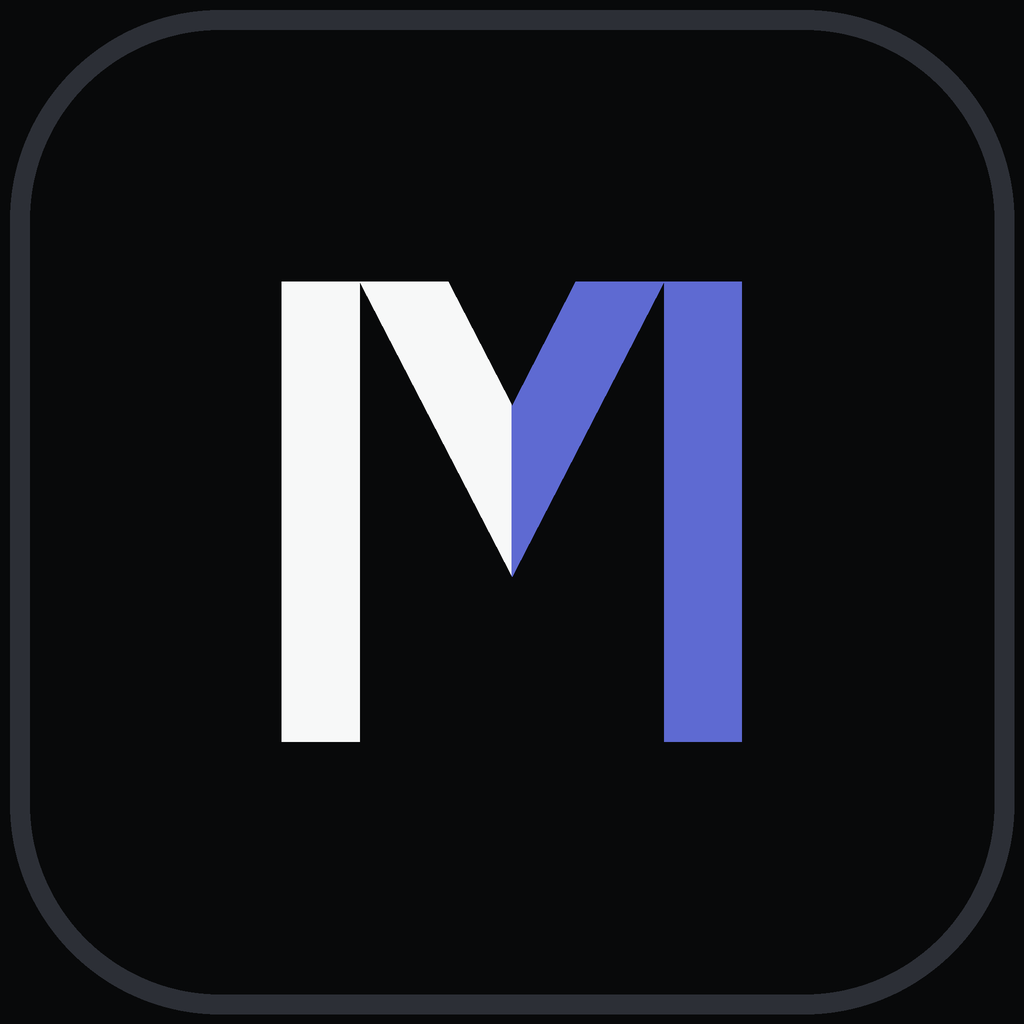
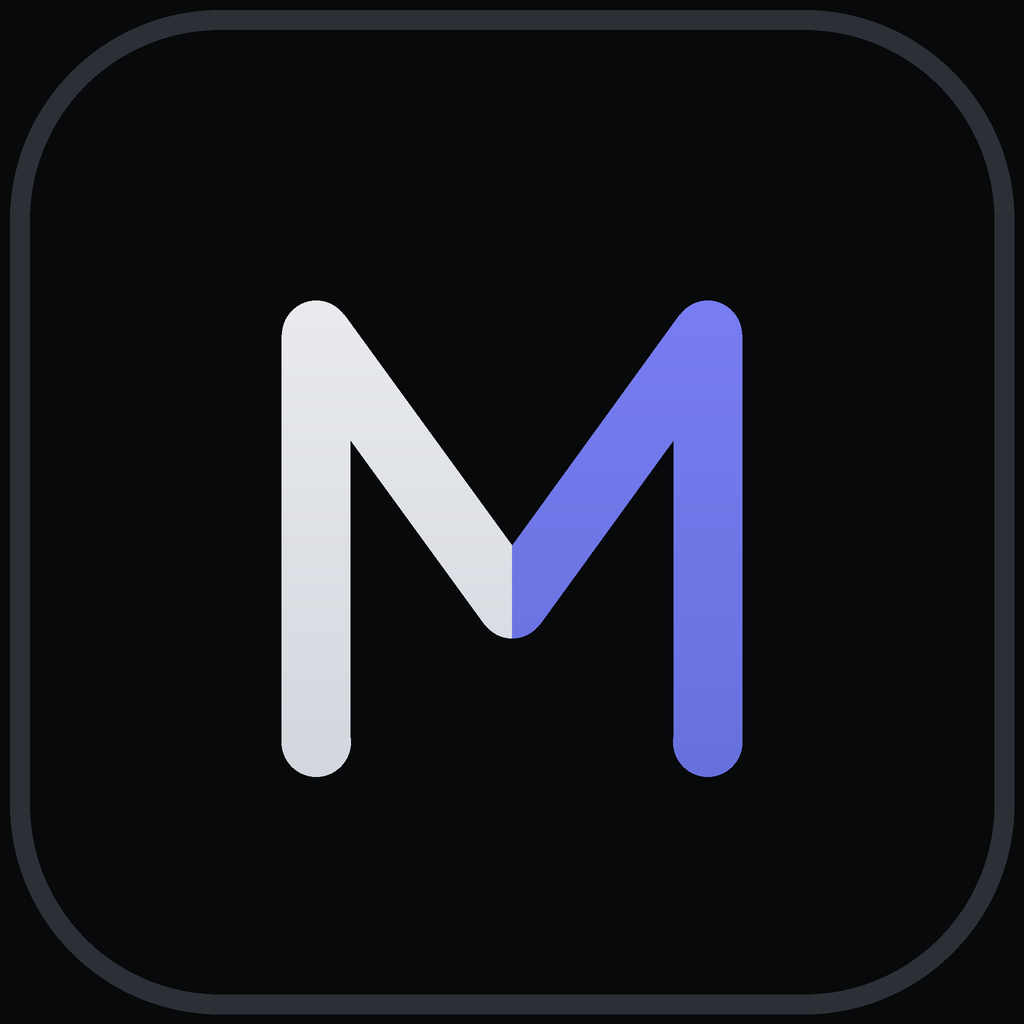
Soften the mark: stroked path with round joins and round caps
v3 was geometrically correct but every corner was a hard vertex - a needle
point at the centre of the M and sharp cuts where the diagonals met the cap.

v4 draws the letterform as one stroked polyline with a single width, round
joins at every corner and round caps at both ends. The centre vertex is now
an arc, the shoulders are soft turns, and the stem ends are rounded. Weight
stays uniform by construction, so the v2/v3 problem of diagonals reading
thinner than stems cannot recur.

The site's nav mark is regenerated from the same geometry.

Changed region(s): [[0.25, 0.25, 0.75, 0.7812], [0.6562, 0.7188, 0.75, 0.7812]]

diff --git a/site/index.html b/site/index.html
@@ -157,7 +157,7 @@
 <header>
   <div class="wrap nav">
     <a class="brand" href="#top" aria-label="Mandate">
-      <svg width="26" height="26" viewBox="0 0 512 512" fill="none" aria-hidden="true"><rect width="512" height="512" rx="110" fill="#08090a"/><rect x="5" y="5" width="502" height="502" rx="105" stroke="#2c2f36" stroke-width="10"/><polygon points="140.8,140.8 180.0,140.8 180.0,371.2 140.8,371.2" fill="#f7f8f8"/><polygon points="180.0,140.8 256.0,288.3 256.0,202.8 224.0,140.8" fill="#f7f8f8"/><polygon points="332.0,140.8 371.2,140.8 371.2,371.2 332.0,371.2" fill="#5e6ad2"/><polygon points="332.0,140.8 256.0,288.3 256.0,202.8 288.0,140.8" fill="#5e6ad2"/></svg>
+      <svg width="26" height="26" viewBox="0 0 512 512" fill="none" aria-hidden="true"><rect width="512" height="512" rx="110" fill="#08090a"/><rect x="5" y="5" width="502" height="502" rx="105" stroke="#2c2f36" stroke-width="10"/><defs><clipPath id="nl"><rect x="0" y="0" width="256" height="512"/></clipPath><clipPath id="nr"><rect x="256" y="0" width="256" height="512"/></clipPath></defs><g clip-path="url(#nl)"><path d="M 158.1 371.2 L 158.1 167.3 L 256.0 302.1 L 353.9 167.3 L 353.9 371.2" stroke="#f7f8f8" stroke-width="34.6" stroke-linecap="round" stroke-linejoin="round"/></g><g clip-path="url(#nr)"><path d="M 158.1 371.2 L 158.1 167.3 L 256.0 302.1 L 353.9 167.3 L 353.9 371.2" stroke="#5e6ad2" stroke-width="34.6" stroke-linecap="round" stroke-linejoin="round"/></g></svg>
       <span>Mandate</span>
     </a>
     <a class="link" href="#problem">Problem</a>

diff --git a/brand/make_mark.py b/brand/make_mark.py
@@ -1,22 +1,23 @@
 #!/usr/bin/env python3
-"""Mandate brand mark v3 — constructed, not drawn.
+"""Mandate brand mark v4 — stroked, not filled. Soft joins, round terminals.
 
-v2 scored 7.5/10, "a solid, professional-grade mark", with one flaw: "the diagonal
-lines forming the V are noticeably thinner than the vertical stems... disrupting the
-overall geometric harmony." That was a real geometry bug, not a taste call - my inner
-vertices were hand-guessed constants instead of being derived.
+v3 scored 10/10 on construction, but the letterform was a filled polygon, so every
+corner was a hard vertex: a needle point at the centre of the M, and sharp cuts where
+the diagonals met the cap line. Geometrically correct, unpleasant to look at.
 
-v3 derives them. The M is four bars:
-  - two vertical stems of width W
-  - two diagonals whose PERPENDICULAR width is also W (computed, not eyeballed)
-The diagonals overshoot the cap height by construction, so the whole letterform is
-rendered to its own layer and clipped at the cap lines. That is what a type designer
-does - the diagonal is cut by the flat terminal, not hand-fitted to it.
+v4 draws the letterform as ONE stroked polyline:
+
+    left stem base -> left shoulder -> centre vertex -> right shoulder -> right stem base
+
+one stroke width throughout, ROUND joins at every corner, ROUND caps at both ends.
+The centre vertex becomes an arc instead of a point; the shoulders become soft turns
+instead of mitres. Nothing in the mark is sharp.
+
+Because it is a stroked path, weight is uniform by construction - the v2/v3 problem of
+diagonals reading thinner than the stems cannot recur.
 
 Emits mandate-mark.svg (deliverable) and mandate-mark.png (raster preview).
 """
-import math
-
 from PIL import Image, ImageDraw
 
 S = 1024
@@ -25,99 +26,67 @@ SS = 2
 BG = (8, 9, 10)
 BORDER = (44, 47, 54)
 INK = (247, 248, 248)
-INK_DEEP = (198, 202, 212)
+INK_DEEP = (200, 204, 214)
 ACCENT = (94, 106, 210)
 ACCENT_HI = (131, 134, 255)
 
-W = 0.170          # one stroke width for the entire letterform
-CV = 0.640         # centre vertex depth (unit space)
-TOP, BOT = 0.0, 1.0
-INSET = 0.275      # the M's share of the container
+# --- geometry (unit space) ---------------------------------------------------
+W = 0.150          # stroke width, used everywhere
+INSET = 0.275      # the letterform's share of the container
+CV = 0.700         # how deep the centre vertex dips
+SHOULDER = 0.115   # how far below the cap the shoulders turn
 
 
-def _offset_line(p, q, w):
-    """Return the segment p->q displaced by w perpendicular (up-right side)."""
-    dx, dy = q[0] - p[0], q[1] - p[1]
-    L = math.hypot(dx, dy)
-    nx, ny = dy / L, -dx / L          # right-hand normal
-    if ny > 0:                        # choose the normal that points upward
-        nx, ny = -nx, -ny
-    return (p[0] + nx * w, p[1] + ny * w), (q[0] + nx * w, q[1] + ny * w)
-
-
-def bars():
-    """Two stems plus two diagonals, with the inner vertex DERIVED.
-
-    v3 bug: offsetting both endpoints of the diagonal produced an inner edge that
-    overshot past the centre line, so the colour split caught a stray wedge
-    ("looks like a separate piece stuck on"). The inner vertex is where the two
-    inner edges actually meet - on the centre line, by symmetry - so it has to be
-    solved, not offset.
-    """
-    # outer diagonal, left: from the left stem's top corner to the centre vertex
-    p, q = (W, TOP), (0.5, CV)
-    dx, dy = q[0] - p[0], q[1] - p[1]
-    L = math.hypot(dx, dy)
-    nx, ny = dy / L, -dx / L
-    if ny > 0:
-        nx, ny = -nx, -ny
-    # the inner edge is the same line pushed W perpendicular; its intercept
-    c_out = dy * p[0] - dx * p[1]          # 0.640*W - 0.330*0
-    c_in = c_out + W * L
-    # inner vertex: where the inner edge meets the centre line x = 0.5
-    cv_in = (dy * 0.5 - c_in) / dx
-    # where the inner edge crosses the cap line y = 0
-    x_at_cap = c_in / dy
-
-    left_diag = [(W, TOP), (0.5, CV), (0.5, cv_in), (x_at_cap, TOP)]
-    right_diag = [(1 - x, y) for x, y in left_diag]
-
-    out = [
-        [(0.0, TOP), (W, TOP), (W, BOT), (0.0, BOT)],           # left stem
-        [(1 - W, TOP), (1.0, TOP), (1.0, BOT), (1 - W, BOT)],   # right stem
-        left_diag,
-        right_diag,
+def path():
+    """One polyline traced left to right. Endpoints are the two stem bases."""
+    x0, x1 = W / 2, 1 - W / 2
+    return [
+        (x0, 1.00),      # left stem base   (round cap)
+        (x0, SHOULDER),  # left shoulder    (round join)
+        (0.5, CV),       # centre vertex    (round join)
+        (x1, SHOULDER),  # right shoulder   (round join)
+        (x1, 1.00),      # right stem base  (round cap)
     ]
-    return out
 
 
-def write_svg(path):
+def _map(pts, k, inset=INSET):
+    span = 1.0 - 2 * inset
+    return [((inset + x * span) * k, (inset + y * span) * k) for x, y in pts]
+
+
+def write_svg(out):
     k = 512
-    span = 1.0 - 2 * INSET
-    def T(pt):
-        return ((INSET + pt[0] * span) * k, (INSET + pt[1] * span) * k)
-    polys = "".join(
-        '  <polygon points="' + " ".join(f"{x:.2f},{y:.2f}" for x, y in map(T, poly)) + '"/>\n'
-        for poly in bars()
-    )
+    pts = _map(path(), k)
+    d = "M " + " L ".join(f"{x:.1f} {y:.1f}" for x, y in pts)
     r = 0.215 * k
     st = 0.020 * k
+    lw = W * (1 - 2 * INSET) * k
     svg = f'''<svg xmlns="http://www.w3.org/2000/svg" width="{k}" height="{k}" viewBox="0 0 {k} {k}" fill="none">
   <defs>
-    <clipPath id="letter"><rect x="{INSET*k:.1f}" y="{INSET*k:.1f}" width="{span*k:.1f}" height="{span*k:.1f}"/></clipPath>
-    <clipPath id="left"><rect x="0" y="0" width="{k/2:.1f}" height="{k}"/></clipPath>
-    <clipPath id="right"><rect x="{k/2:.1f}" y="0" width="{k/2:.1f}" height="{k}"/></clipPath>
     <linearGradient id="ink" x1="0" y1="0" x2="0" y2="1">
       <stop offset="0%" stop-color="rgb{INK}"/><stop offset="100%" stop-color="rgb{INK_DEEP}"/>
     </linearGradient>
     <linearGradient id="acc" x1="0" y1="0" x2="0" y2="1">
       <stop offset="0%" stop-color="rgb{ACCENT_HI}"/><stop offset="100%" stop-color="rgb{ACCENT}"/>
     </linearGradient>
-    <mask id="clipL"><rect x="0" y="0" width="{k/2:.1f}" height="{k}" fill="#fff"/></mask>
+    <clipPath id="left"><rect x="0" y="0" width="{k/2:.1f}" height="{k}"/></clipPath>
+    <clipPath id="right"><rect x="{k/2:.1f}" y="0" width="{k/2:.1f}" height="{k}"/></clipPath>
   </defs>
   <rect width="{k}" height="{k}" rx="{r:.1f}" fill="rgb{BG}"/>
   <rect x="{st/2:.1f}" y="{st/2:.1f}" width="{k-st:.1f}" height="{k-st:.1f}" rx="{r-st/2:.1f}"
         stroke="rgb{BORDER}" stroke-width="{st:.1f}"/>
-  <g clip-path="url(#letter)">
-    <g clip-path="url(#left)"><g fill="url(#ink)">{polys}</g></g>
-    <g clip-path="url(#right)"><g fill="url(#acc)">{polys}</g></g>
+  <g clip-path="url(#left)">
+    <path d="{d}" stroke="url(#ink)" stroke-width="{lw:.1f}" stroke-linecap="round" stroke-linejoin="round"/>
+  </g>
+  <g clip-path="url(#right)">
+    <path d="{d}" stroke="url(#acc)" stroke-width="{lw:.1f}" stroke-linecap="round" stroke-linejoin="round"/>
   </g>
 </svg>
 '''
-    open(path, "w", encoding="utf-8").write(svg)
+    open(out, "w", encoding="utf-8").write(svg)
 
 
-def render_png(path):
+def render_png(out):
     Wp = S * SS
     img = Image.new("RGB", (Wp, Wp), BG)
     d = ImageDraw.Draw(img, "RGBA")
@@ -126,33 +95,34 @@ def render_png(path):
     d.rounded_rectangle([st // 2, st // 2, Wp - st // 2, Wp - st // 2],
                         radius=rad - st // 2, outline=BORDER + (255,), width=st)
 
-    # draw the letterform on its own layer so the diagonal overshoot is clipped
-    # at the cap lines by the crop - the way a type designer cuts a terminal
-    span = 1.0 - 2 * INSET
-    layer = Image.new("RGBA", (Wp, Wp), (0, 0, 0, 0))
+    pts = _map(path(), Wp)
+    lw = int(W * (1 - 2 * INSET) * Wp)
+
+    # the stroke goes on its own layer, so the colour split stays clean
+    layer = Image.new("L", (Wp, Wp), 0)
     ld = ImageDraw.Draw(layer)
-    for poly in bars():
-        pts = [((INSET + x * span) * Wp, (INSET + y * span) * Wp) for x, y in poly]
-        ld.polygon(pts, fill=(255, 255, 255, 255))
+    ld.line(pts, fill=255, width=lw, joint="curve")      # rounds every corner
+    for (x, y) in (pts[0], pts[-1]):                     # round the two terminals
+        r = lw / 2
+        ld.ellipse([x - r, y - r, x + r, y + r], fill=255)
 
-    # clip to the letterform box, then split at the centre
-    box = (int(INSET * Wp), int(INSET * Wp), int((INSET + span) * Wp), int((INSET + span) * Wp))
-    letter = layer.crop(box)
-    lw, lh = letter.size
-    mid = lw // 2
-
-    ink = Image.new("RGBA", (mid, lh), INK + (255,))
-    acc = Image.new("RGBA", (lw - mid, lh), ACCENT + (255,))
-    left = Image.new("RGBA", (mid, lh), (0, 0, 0, 0))
-    left.paste(ink, (0, 0), letter.crop((0, 0, mid, lh)))
-    right = Image.new("RGBA", (lw - mid, lh), (0, 0, 0, 0))
-    right.paste(acc, (0, 0), letter.crop((mid, 0, lw, lh)))
-
-    img.paste(left, (box[0], box[1]), left)
-    img.paste(right, (box[0] + mid, box[1]), right)
+    mid = Wp // 2
+    for side, (x0, x1, top, bot) in (("L", (0, mid, INK, INK_DEEP)),
+                                     ("R", (mid, Wp, ACCENT_HI, ACCENT))):
+        m = layer.crop((x0, 0, x1, Wp))
+        w = x1 - x0
+        # vertical gradient inside the stroke: lighter at the top, deeper below
+        grad = Image.new("RGB", (w, Wp))
+        gd = ImageDraw.Draw(grad)
+        for y in range(Wp):
+            t = y / Wp
+            gd.line([0, y, w, y], fill=(int(top[0] + (bot[0] - top[0]) * t),
+                                        int(top[1] + (bot[1] - top[1]) * t),
+                                        int(top[2] + (bot[2] - top[2]) * t)))
+        img.paste(grad, (x0, 0), m)
 
     img = img.resize((S, S), Image.LANCZOS)
-    img.save(path)
+    img.save(out)
 
 
 if __name__ == "__main__":
